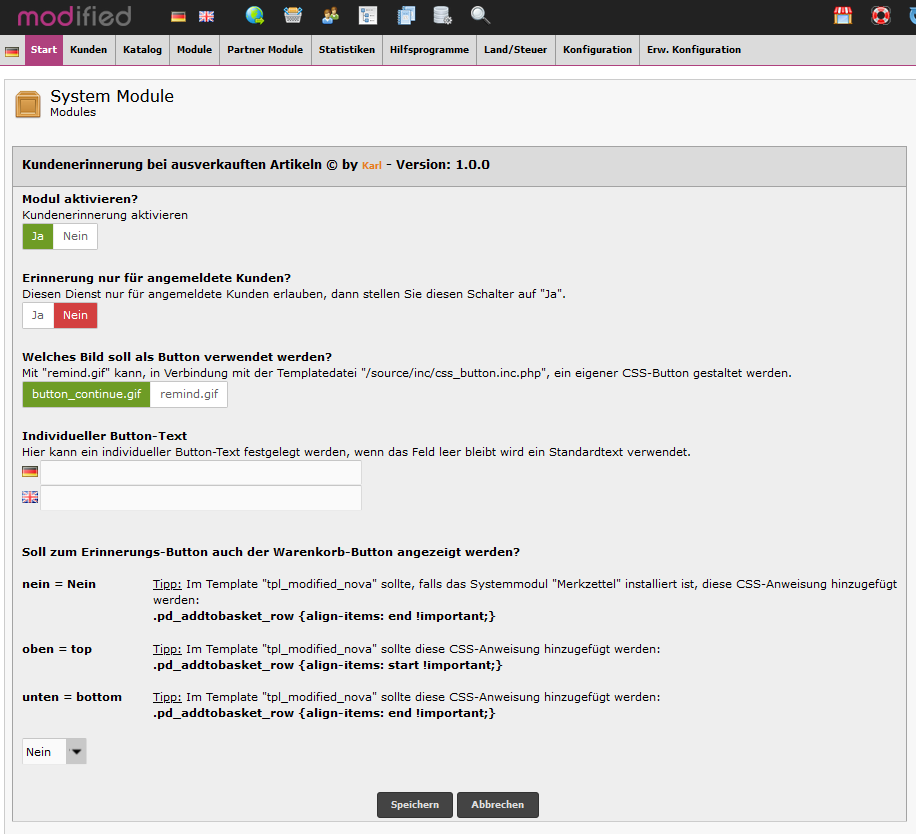
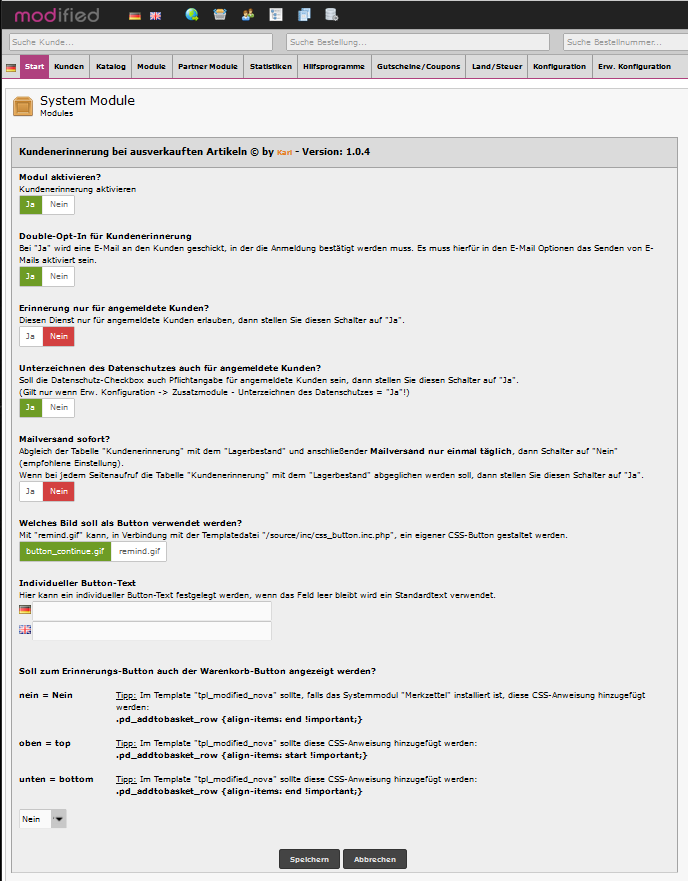
Version 1.0.4

Changed region(s): [[0.0, 0.0, 1.0, 1.0], [0.3968, 0.9353, 0.6105, 0.9976], [0.7631, 0.2806, 0.9462, 0.3118]]

diff --git a/new_files/admin/includes/modules/system/customers_remind.php b/new_files/admin/includes/modules/system/customers_remind.php
@@ -24,12 +24,16 @@ class customers_remind {
     public $description;
     public $enabled;
     public $sort_order;
+    public $_check;
     public $keys;
 
 	public function __construct() {
 		$this->code = 'customers_remind';
-		$this->title = MODULE_CUSTOMERS_REMIND_TEXT_TITLE . ' © by <a href="https://github.com/KarlBogen" target="_blank" style="color: #e67e22; font-weight: bold;">Karl</a> - Version: 1.0.3';
+		$this->title = MODULE_CUSTOMERS_REMIND_TEXT_TITLE . ' © by <a href="https://github.com/KarlBogen" target="_blank" style="color: #e67e22; font-weight: bold;">Karl</a> - Version: 1.0.4';
 		$this->description = '';
+		if (defined('MODULE_CUSTOMERS_REMIND_STATUS')) {
+			$this->description .= '<a class="button btnbox but_green" style="text-align:center;" onclick="this.blur();" href="' . xtc_href_link(FILENAME_MODULE_EXPORT, 'set=system&module=' . $this->code . '&action=update') . '">Update</a><br /><br />';
+		}
 		$this->description .= '<a class="button btnbox but_red" style="text-align:center;" onclick="return confirmLink(\''. MODULE_CUSTOMERS_REMIND_DELETE_CONFIRM .'\', \'\' ,this);" href="' . xtc_href_link(FILENAME_MODULE_EXPORT, 'set=system&module=' . $this->code . '&action=custom') . '">' . MODULE_CUSTOMERS_REMIND_DELETE_BUTTON . '</a><br />';
 		$this->description .= MODULE_CUSTOMERS_REMIND_TEXT_DESCRIPTION;
 		$this->sort_order = defined('MODULE_CUSTOMERS_REMIND_SORT_ORDER') ? MODULE_CUSTOMERS_REMIND_SORT_ORDER : 0;
@@ -45,18 +49,25 @@ class customers_remind {
 	}
 
 	public function check() {
-		if (!isset($this->_check)) {
-			$check_query = xtc_db_query("SELECT configuration_value
-											FROM " . TABLE_CONFIGURATION . "
-											WHERE configuration_key = 'MODULE_CUSTOMERS_REMIND_STATUS'");
-			$this->_check = xtc_db_num_rows($check_query);
-		}
-		return $this->_check;
+    if (!isset($this->_check)) {
+      if (defined('MODULE_CUSTOMERS_REMIND_STATUS')) {
+        $this->_check = true;
+      } else {
+        $check_query = xtc_db_query("SELECT configuration_value
+                                       FROM " . TABLE_CONFIGURATION . "
+                                      WHERE configuration_key = 'MODULE_CUSTOMERS_REMIND_STATUS'");
+        $this->_check = xtc_db_num_rows($check_query);
+      }
+    }
+    return $this->_check;
 	}
     
 	public function install() {
 		xtc_db_query("INSERT INTO " . TABLE_CONFIGURATION . " (configuration_key, configuration_value,  configuration_group_id, sort_order, set_function, date_added) VALUES ('MODULE_CUSTOMERS_REMIND_STATUS', 'true',  '6', '1', 'xtc_cfg_select_option(array(\'true\', \'false\'), ', now())");
+		xtc_db_query("INSERT INTO " . TABLE_CONFIGURATION . " (configuration_key, configuration_value,  configuration_group_id, sort_order, set_function, date_added) VALUES ('MODULE_CUSTOMERS_REMIND_DOUBLE_OPT_IN', 'true',  '6', '1', 'xtc_cfg_select_option(array(\'true\', \'false\'), ', now())");
 		xtc_db_query("INSERT INTO " . TABLE_CONFIGURATION . " (configuration_key, configuration_value,  configuration_group_id, sort_order, set_function, date_added) VALUES ('MODULE_CUSTOMERS_REMIND_ONLY_REGISTERED', 'false',  '6', '1', 'xtc_cfg_select_option(array(\'true\', \'false\'), ', now())");
+		xtc_db_query("INSERT INTO " . TABLE_CONFIGURATION . " (configuration_key, configuration_value,  configuration_group_id, sort_order, set_function, date_added) VALUES ('MODULE_CUSTOMERS_REMIND_PRIVACY_CHECK_REGISTERED', 'true',  '6', '1', 'xtc_cfg_select_option(array(\'true\', \'false\'), ', now())");
+		xtc_db_query("INSERT INTO " . TABLE_CONFIGURATION . " (configuration_key, configuration_value,  configuration_group_id, sort_order, set_function, date_added) VALUES ('MODULE_CUSTOMERS_REMIND_SENDMAIL_ASAP', 'false',  '6', '1', 'xtc_cfg_select_option(array(\'true\', \'false\'), ', now())");
 		xtc_db_query("INSERT INTO " . TABLE_CONFIGURATION . " (configuration_key, configuration_value,  configuration_group_id, sort_order, set_function, date_added) VALUES ('MODULE_CUSTOMERS_REMIND_BUTTON_IMAGE', 'button_continue.gif',  '6', '1', 'xtc_cfg_select_option(array(\'button_continue.gif\', \'remind.gif\'), ', now())");
 		xtc_db_query("INSERT INTO " . TABLE_CONFIGURATION . " (configuration_key, configuration_value,  configuration_group_id, sort_order, set_function, date_added) VALUES ('MODULE_CUSTOMERS_REMIND_BUTTON_TEXT', '',  '6', '1', 'xtc_cfg_input_email_language;MODULE_CUSTOMERS_REMIND_BUTTON_TEXT', now())");
 		xtc_db_query("INSERT INTO " . TABLE_CONFIGURATION . " (configuration_key, configuration_value,  configuration_group_id, sort_order, set_function, date_added) VALUES ('MODULE_CUSTOMERS_REMIND_SHOW_ADDTOCART', 'no',  '6', '1', 'xtc_cfg_select_option(array(\'no\', \'top\', \'bottom\'), ', now())");
@@ -141,6 +152,18 @@ class customers_remind {
 		$file_to_remove = DIR_FS_CATALOG.'includes/extra/modules/product_info_end/customers_remind.php';
 		if (file_exists($file_to_remove)) unlink($file_to_remove);
 
+	}
+
+	public function update() {
+		if (!defined('MODULE_CUSTOMERS_REMIND_DOUBLE_OPT_IN')) {
+			xtc_db_query("insert into " . TABLE_CONFIGURATION . " (configuration_key, configuration_value, configuration_group_id, sort_order, set_function, date_added) values ('MODULE_CUSTOMERS_REMIND_DOUBLE_OPT_IN', 'true','6', '1','xtc_cfg_select_option(array(\'true\', \'false\'), ', now())");
+		}
+		if (!defined('MODULE_CUSTOMERS_REMIND_PRIVACY_CHECK_REGISTERED')) {
+			xtc_db_query("insert into " . TABLE_CONFIGURATION . " (configuration_key, configuration_value, configuration_group_id, sort_order, set_function, date_added) values ('MODULE_CUSTOMERS_REMIND_PRIVACY_CHECK_REGISTERED', 'true','6', '1','xtc_cfg_select_option(array(\'true\', \'false\'), ', now())");
+		}
+		if (!defined('MODULE_CUSTOMERS_REMIND_SENDMAIL_ASAP')) {
+			xtc_db_query("insert into " . TABLE_CONFIGURATION . " (configuration_key, configuration_value, configuration_group_id, sort_order, set_function, date_added) values ('MODULE_CUSTOMERS_REMIND_SENDMAIL_ASAP', 'false','6', '1','xtc_cfg_select_option(array(\'true\', \'false\'), ', now())");
+		}
 	}
 
 	public function remove() {
@@ -259,7 +282,10 @@ class customers_remind {
 
 		$key = array(
 			'MODULE_CUSTOMERS_REMIND_STATUS',
+			'MODULE_CUSTOMERS_REMIND_DOUBLE_OPT_IN',
 			'MODULE_CUSTOMERS_REMIND_ONLY_REGISTERED',
+      'MODULE_CUSTOMERS_REMIND_PRIVACY_CHECK_REGISTERED',
+			'MODULE_CUSTOMERS_REMIND_SENDMAIL_ASAP',
 			'MODULE_CUSTOMERS_REMIND_BUTTON_IMAGE',
 			'MODULE_CUSTOMERS_REMIND_BUTTON_TEXT',
 			'MODULE_CUSTOMERS_REMIND_SHOW_ADDTOCART',

diff --git a/new_files/lang/german/modules/system/customers_remind.php b/new_files/lang/german/modules/system/customers_remind.php
@@ -18,8 +18,14 @@ define('MODULE_CUSTOMERS_REMIND_TEXT_TITLE', 'Kundenerinnerung bei ausverkauften
 define('MODULE_CUSTOMERS_REMIND_TEXT_DESCRIPTION', 'Dieses Modul bietet Ihren angemeldeten Kunden die M&ouml;glichkeit, sich eine Erinnerungs-E-Mail schicken zu lassen, sobald ein Artikel wieder auf Lager ist.<br /><br />Sobald ein Artikel nicht mehr auf Lager ist, erscheint auf der Produktdetail-Seite ein Button, womit der Kunde sich in die Erinnerungsliste eintragen kann.<br /><br />Ist ein Artikel (in ausreichender Anzahl) wieder auf Lager, bekommt der Kunde automatisch eine Erinnerungsmail mit einem Link, der direkt zum Produkt im Shop f&uuml;hrt.');
 define('MODULE_CUSTOMERS_REMIND_STATUS_TITLE', 'Modul aktivieren?');
 define('MODULE_CUSTOMERS_REMIND_STATUS_DESC', 'Kundenerinnerung aktivieren');
+define('MODULE_CUSTOMERS_REMIND_DOUBLE_OPT_IN_TITLE','Double-Opt-In f&uuml;r Kundenerinnerung');
+define('MODULE_CUSTOMERS_REMIND_DOUBLE_OPT_IN_DESC','Bei "Ja" wird eine E-Mail an den Kunden geschickt, in der die Anmeldung best&auml;tigt werden muss. Es muss hierf&uuml;r in den E-Mail Optionen das Senden von E-Mails aktiviert sein.');
 define('MODULE_CUSTOMERS_REMIND_ONLY_REGISTERED_TITLE', 'Erinnerung nur f&uuml;r angemeldete Kunden?');
 define('MODULE_CUSTOMERS_REMIND_ONLY_REGISTERED_DESC', 'Diesen Dienst nur f&uuml;r angemeldete Kunden erlauben, dann stellen Sie diesen Schalter auf "Ja".');
+define('MODULE_CUSTOMERS_REMIND_PRIVACY_CHECK_REGISTERED_TITLE', 'Unterzeichnen des Datenschutzes auch f&uuml;r angemeldete Kunden?');
+define('MODULE_CUSTOMERS_REMIND_PRIVACY_CHECK_REGISTERED_DESC', 'Soll die Datenschutz-Checkbox auch Pflichtangabe f&uuml;r angemeldete Kunden sein, dann stellen Sie diesen Schalter auf "Ja".<br>(Gilt nur wenn Erw. Konfiguration -> Zusatzmodule - Unterzeichnen des Datenschutzes = "Ja"!)');
+define('MODULE_CUSTOMERS_REMIND_SENDMAIL_ASAP_TITLE', 'Mailversand sofort?');
+define('MODULE_CUSTOMERS_REMIND_SENDMAIL_ASAP_DESC', 'Abgleich der Tabelle "Kundenerinnerung" mit dem "Lagerbestand" und anschlie&szlig;ender <strong>Mailversand nur einmal t&auml;glich</strong>, dann Schalter auf "Nein" (empfohlene Einstellung).<br>Wenn bei jedem Seitenaufruf die Tabelle "Kundenerinnerung" mit dem "Lagerbestand" abgeglichen werden soll, dann stellen Sie diesen Schalter auf "Ja".');
 define('MODULE_CUSTOMERS_REMIND_BUTTON_IMAGE_TITLE', 'Welches Bild soll als Button verwendet werden?');
 define('MODULE_CUSTOMERS_REMIND_BUTTON_IMAGE_DESC', 'Mit "remind.gif" kann, in Verbindung mit der Templatedatei "/source/inc/css_button.inc.php", ein eigener CSS-Button gestaltet werden.');
 define('MODULE_CUSTOMERS_REMIND_BUTTON_TEXT_TITLE', 'Individueller Button-Text');

diff --git a/new_files/includes/classes/class.customers_remind.php b/new_files/includes/classes/class.customers_remind.php
@@ -24,8 +24,13 @@ require_once (DIR_FS_CATALOG.'includes/classes/modified_captcha.php');
 
 
 class customersremind {
-  var $message, $message_class;
 
+  var $message;
+  var $message_class;
+  var $auto;
+  var $remove;
+  var $vlCode;
+  var $mod_captcha;
 
   function __construct() {
     $this->auto = false;
@@ -150,7 +155,7 @@ class customersremind {
 
             if ($check_mail['mail_status'] != '1') {
 
-              if (SEND_EMAILS == 'true') {
+              if (MODULE_CUSTOMERS_REMIND_DOUBLE_OPT_IN == 'true' && SEND_EMAILS == 'true') {
                 $sql_data_array = array(
                   'mail_key' => $this->vlCode,
                   'mail_status' => '0',
@@ -161,7 +166,19 @@ class customersremind {
                 $this->sendRequestMail($mail);
 	              $this->message = TEXT_EMAIL_EXIST_NO_REMINDER;
 	              $this->message_class = 'info';
-              }
+              } else {
+                $sql_data_array = array(
+                  'mail_status' => '1',
+                  'mail_key' => $this->vlCode,
+                  'date_added' => 'now()',
+                  'ip_date_added' => ip_clearing($_SESSION['tracking']['ip']),
+                  'date_confirmed' => 'now()',
+                  'ip_date_confirmed' => ip_clearing($_SESSION['tracking']['ip'])
+                );
+                xtc_db_perform(TABLE_CUSTOMERS_REMIND_RECIPIENTS, $sql_data_array, 'update', "customers_email_address = '".xtc_db_input($mail)."'");
+                $this->message = TEXT_EMAIL_ACTIVE_REMINDER;
+                $this->message_class = 'info';
+							}
 
             } else {
 							// Email registriert
@@ -202,11 +219,20 @@ class customersremind {
             );
             xtc_db_perform(TABLE_CUSTOMERS_REMIND_RECIPIENTS, $sql_data_array);
 
-            if (SEND_EMAILS == 'true') {
+            if (MODULE_CUSTOMERS_REMIND_DOUBLE_OPT_IN == 'true' && SEND_EMAILS == 'true') {
               $this->sendRequestMail($mail);
 	            $this->message = TEXT_EMAIL_INPUT_REMINDER;
 	            $this->message_class = 'info';
-            }
+            } else {
+              $sql_data_array = array(
+                'mail_status' => '1',
+                'date_confirmed' => 'now()',
+                'ip_date_confirmed' => ip_clearing($_SESSION['tracking']['ip'])
+              );
+              xtc_db_perform(TABLE_CUSTOMERS_REMIND_RECIPIENTS, $sql_data_array, 'update', "customers_email_address = '".xtc_db_input($mail)."'");
+              $this->message = TEXT_EMAIL_ACTIVE_REMINDER;
+              $this->message_class = 'info';
+						}
           }
         }
 

diff --git a/new_files/lang/english/modules/system/customers_remind.php b/new_files/lang/english/modules/system/customers_remind.php
@@ -18,8 +18,14 @@ define('MODULE_CUSTOMERS_REMIND_TEXT_TITLE', 'Customer reminder for sold out ite
 define('MODULE_CUSTOMERS_REMIND_TEXT_DESCRIPTION', 'This module offers your logged customers the possibility to have a reminder e-mail sent as soon as an article (in sufficient number) is back in stock.');
 define('MODULE_CUSTOMERS_REMIND_STATUS_TITLE', 'Activate Module?');
 define('MODULE_CUSTOMERS_REMIND_STATUS_DESC', 'Activate Customers Remind');
+define('MODULE_CUSTOMERS_REMIND_DOUBLE_OPT_IN_TITLE','Double-Opt-In for Customers Remind registration.');
+define('MODULE_CUSTOMERS_REMIND_DOUBLE_OPT_IN_DESC','If "Yes" an eMail will be send where the Registration have to be confirmed. This only works if send eMails is activated.');
 define('MODULE_CUSTOMERS_REMIND_ONLY_REGISTERED_TITLE', 'Reminder only for registered customers?');
 define('MODULE_CUSTOMERS_REMIND_ONLY_REGISTERED_DESC', 'If you only allow this service for registered customers, then set this switch to “Yes”.');
+define('MODULE_CUSTOMERS_REMIND_PRIVACY_CHECK_REGISTERED_TITLE', 'Signing privacy notice also for registered customers?');
+define('MODULE_CUSTOMERS_REMIND_PRIVACY_CHECK_REGISTERED_DESC', 'Should the privacy notice checkbox also be required for registered customers, set this switch to "Yes".<br>(Only applies if Adv. Configuration -> Additional Modules - Sign privacy notice = "Yes"!)');
+define('MODULE_CUSTOMERS_REMIND_SENDMAIL_ASAP_TITLE', 'Send email immediately?');
+define('MODULE_CUSTOMERS_REMIND_SENDMAIL_ASAP_DESC', 'Compare the "Customer Reminder" table with the "Stock" and then <strong>send the email only once a day</strong>, then switch to "No" (recommended setting).<br>If you want to compare the "Customer Reminder" table with the "Stock" at every page load, set this switch to "Yes".');
 define('MODULE_CUSTOMERS_REMIND_BUTTON_IMAGE_TITLE', 'Which image should be used as a button?');
 define('MODULE_CUSTOMERS_REMIND_BUTTON_IMAGE_DESC', 'With "remind.gif" you can design your own CSS-Button, have a look at the template file "/source/inc/css_button.inc.php".');
 define('MODULE_CUSTOMERS_REMIND_BUTTON_TEXT_TITLE', 'Custom button text');

diff --git a/new_files/customers_remind.php b/new_files/customers_remind.php
@@ -105,11 +105,13 @@ if(defined('MODULE_CUSTOMERS_REMIND_STATUS') && MODULE_CUSTOMERS_REMIND_STATUS =
 			if (isset($_POST['action']) && $_POST['action'] == 'add_remind') {
 				$email = xtc_db_prepare_input($_POST['customers_input_email']);
 				// Postcheck
-				if (DISPLAY_PRIVACY_CHECK == 'true' && empty($privacy)) {
-					$error = true;
-					$messageStack->add('customers_remind', ENTRY_PRIVACY_ERROR);
+				if (!isset($_SESSION['customer_email_address']) || (isset($_SESSION['customer_email_address']) && MODULE_CUSTOMERS_REMIND_PRIVACY_CHECK_REGISTERED == 'true')) {
+					if (DISPLAY_PRIVACY_CHECK == 'true' && empty($privacy)) {
+						$error = true;
+						$messageStack->add('customers_remind', ENTRY_PRIVACY_ERROR);
+					}
 				}
-			if(strlen($email) < ENTRY_EMAIL_ADDRESS_MIN_LENGTH) {
+				if(strlen($email) < ENTRY_EMAIL_ADDRESS_MIN_LENGTH) {
 					$error = true;
 					$messageStack->add('customers_remind', ENTRY_EMAIL_ADDRESS_ERROR);
 				}
@@ -196,12 +198,14 @@ if(defined('MODULE_CUSTOMERS_REMIND_STATUS') && MODULE_CUSTOMERS_REMIND_STATUS =
 
         $smarty->assign('FORM_END_REMIND', '</form>');
 				if (DISPLAY_PRIVACY_CHECK == 'true') {
-					$smarty->assign('PRIVACY_CHECKBOX', xtc_draw_checkbox_field('privacy', 'privacy', $privacy, 'id="privacy"'));
+					if (!isset($_SESSION['customer_email_address']) || (isset($_SESSION['customer_email_address']) && MODULE_CUSTOMERS_REMIND_PRIVACY_CHECK_REGISTERED == 'true')) {
+						$smarty->assign('PRIVACY_CHECKBOX', xtc_draw_checkbox_field('privacy', 'privacy', $privacy, 'id="privacy"'));
+					}
 				}
 				$smarty->assign('PRIVACY_LINK', '<a target="_blank" href="'.xtc_href_link(FILENAME_CUSTOMERS_REMIND, 'coID=2').'" title="Information">'.MORE_INFO.'</a>');
 
-	        $smarty->assign('SUCCESS_MESSAGE', '0');
-	        $smarty->assign('BUTTON_SUBMIT_REMIND', xtc_image_submit('button_continue.gif', IMAGE_BUTTON_CONTINUE));
+	      $smarty->assign('SUCCESS_MESSAGE', '0');
+	      $smarty->assign('BUTTON_SUBMIT_REMIND', xtc_image_submit('button_continue.gif', IMAGE_BUTTON_CONTINUE));
     	}
 
 			$smarty->assign('error_message', $error_message);

diff --git a/new_files/includes/modules/product/customers_remind.php b/new_files/includes/modules/product/customers_remind.php
@@ -17,6 +17,15 @@
 
 class customers_remind {  //Important same name as filename
 
+    var $code;
+    var $title;
+    var $description;
+    var $name;
+    var $enabled;
+    var $sort_order;
+    var $_check;
+    var $translate;
+
     //--- BEGIN DEFAULT CLASS METHODS ---//
     function __construct()
     {
@@ -43,8 +52,12 @@ class customers_remind {  //Important same name as filename
 
     function check() {
         if (!isset($this->_check)) {
-          $check_query = xtc_db_query("select configuration_value from " . TABLE_CONFIGURATION . " where configuration_key = '".$this->name."_STATUS'");
-          $this->_check = xtc_db_num_rows($check_query);
+          if (defined($this->name.'_STATUS')) {
+            $this->_check = true;
+          } else {
+            $check_query = xtc_db_query("select configuration_value from " . TABLE_CONFIGURATION . " where configuration_key = '".$this->name."_STATUS'");
+            $this->_check = xtc_db_num_rows($check_query);
+          }
         }
         return $this->_check;
     }

diff --git a/new_files/includes/modules/customers_remind.php b/new_files/includes/modules/customers_remind.php
@@ -14,9 +14,9 @@
 	Released under the GNU General Public License
 -------------------------------------------------------------- */
 
-$sendmail_asap = false; // true - wenn bei jedem Seitenaufruf die Tabelle "Kundenerinnerung" mit dem "Lagerbestand" abgeglichen werden soll
+$sendmail_asap = defined('MODULE_CUSTOMERS_REMIND_SENDMAIL_ASAP') ? MODULE_CUSTOMERS_REMIND_SENDMAIL_ASAP : 'false'; // true - wenn bei jedem Seitenaufruf die Tabelle "Kundenerinnerung" mit dem "Lagerbestand" abgeglichen werden soll
 
-if ($sendmail_asap === false) {
+if ($sendmail_asap === 'false') {
 	// Thanks to noRiddle - simulated cron job (code from https://trac.modified-shop.org/ticket/2252)
 	$last_exec = NULL;
 	$mas_act = false;

diff --git a/README.MD b/README.MD
@@ -1,6 +1,6 @@
 #	Module Kundenerinnerung mit Opt-in
 
-*Getestet mit den Shopversionen 2.0.7.2 und 3.0.2*
+*Getestet mit den Shopversionen 2.0.7.2, 3.0.2 und 3.1.0*
 
 
 ## Beschreibung
@@ -50,6 +50,14 @@ Im Paket enthalten sind Dateien für die Templates
    Wer diesen Dienst nur für angemeldete Kunden erlauben möchte, stellt diesen Schalter auf "Ja".
 
 #### Nicht vergessen - Datenschutzhinweise anpassen!
+
+
+## Update
+
+1. Im Adminbereich unter "Module->System Module" den Eintrag "Kundenerinnerung bei ausverkauften Artikeln" auswählen.
+
+2. Dann den grünen Button "Update" klicken.
+   *Hinweis: Backup, Deinstallieren, Installieren und Wiederherstellen sind nicht nötig.*
 
 
 ## Deinstallation

diff --git a/CHANGELOG.MD b/CHANGELOG.MD
@@ -4,6 +4,15 @@ UNRELEASED
 
 
 
+1.0.4 [02.08.2024]
+
+- Neue Funktion "Update" hinzugefügt
+- Neue Option "Double-Opt-In für Kundenerinnerung"
+- Neue Option "Unterzeichnen des Datenschutzes auch für angemeldete Kunden?"
+- Neue Option "Mailversand sofort?"
+- Anpassung PHP 8.2
+
+
 1.0.3 [09.06.2024]
 
 - Wenn der Artikelname das Zeichen "%" enthielt kam es zu einem PHP-Fehler - behoben
